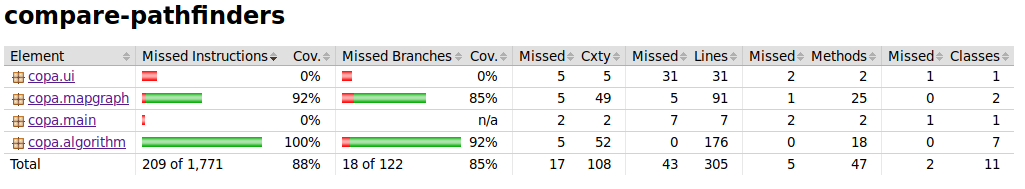
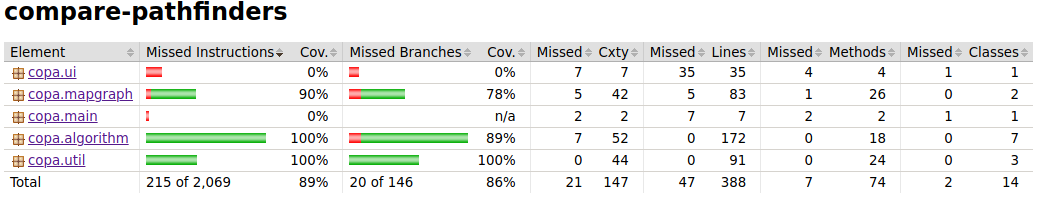
dokumentaatiota kasvatettu

diff --git a/documentation/testing.md b/documentation/testing.md
@@ -1,12 +1,12 @@
 # Testausdokumentti
 
-Ohjelmalle on toteutettu automaattisia JUnit yksikkö- ja integraatiotestejä, testien rivi- ja haaraumakattavuus on raportoitu JaCoCo:n avulla.
+Ohjelmalle on toteutettu automaattisia JUnit yksikkö- ja integraatiotestejä. Testien rivi- ja haaraumakattavuus on raportoitu JaCoCo:n avulla, josta oheen on liitetty kuvakaappauksia sovelluksen lopellisesta versiosta.
 
-## Testauksen kattavuus
-
-Ajantasaisen tiedon testien kattavuudesta saat ajamalla sovelluksen juuressa komentorivillä käskyn ``./gradlew test jacocoTestReport`` ja avaamalla selaimeesi kansioon ./build/reports/jacoco/test/html generoidun html-pohjaisen raportin. Vaihtoehtoisesti voit klikata alla olevaa Codecov-työkalun linkkiä, jolla pääset tarkastelemaan Githubista löytyvän viimeisimmän sovellusversion vastaavia Jacoco-testien tuloksia.
+Klikkaamalla oheista Codecov-työkalun linkkiä pääset tarkastelemaan Githubista löytyvän viimeisimmän sovellusversion vastaavia Jacoco-testien tuloksia tarkemmin. Löydät palvelusta mm. oheisia metodikohtaiset testauskattavuudet ja testikattavuuden kehitystrendin projektin aikana.
 
 [![Testikattavuus](https://codecov.io/gh/jsalojuuri/compare-pathfinders/branch/master/graph/badge.svg)](https://codecov.io/gh/jsalojuuri/compare-pathfinders)
+
+## Testauksen kattavuus
 
 ![Jacocon testikattavuus-raportti](./reports/jacoco/jacoco.png)
 
@@ -16,14 +16,21 @@ Pää- ja käyttöliittymäluokkia ei testata, joten testien rivikattavuus on yl
 
 ![Jacocon testikattavuus-raportti, copa.algorithm](./reports/jacoco/jacoco_algorithm.png)
 
-Tästä paketista löytyy vertailtavien algoritmien luokat ja kolmen algortimin osalta myös Comparator-luokat. Rivikattavuus yli 90%. Kaikissa metodeissa on testausta, mutta joitakin haaroja on käymättä läpi.
+Tästä paketista löytyy vertailtavien algoritmien luokat ja kolmen algortimin osalta myös Comparator-luokat. Rivikattavuus on 100%. Kaikissa metodeissa on testausta, mutta joitakin haaroja on käymättä läpi.
 
 ## Kartta- ja solmu-luokkien yksikkötestit
 
 ![Jacocon testikattavuus-raportti, copa.mapgraph](./reports/jacoco/jacoco_mapgraph.png)
 
-Tästä paketista löytyy MapGraph-luokka, jolla ASCII-tiedosto muokataan verkoksi ja printataan näytölle sekä Node-luokka, joka vastaa karttaruutua eli verkon solmua. Käytännössä kaikki metodit paitsi kartan printtaus on testattu. 
+Tästä paketista löytyy MapGraph-luokka, jolla ASCII-tiedosto muokataan verkoksi ja printataan näytölle sekä Node-luokka, joka vastaa karttaruutua eli verkon solmua. Käytännössä kaikki metodit paitsi kartan printtaus on testattu.
+
+## Omien Java.util toteutuksien testaus
+
+![Jacocon testikattavuus-raportti, copa.util](./reports/jacoco/jacoco_util.png)
+
+Tästä paketista löytyy java.util paketin luokkia ArrayList, ArrayDeque ja PriorityQueue vastaavat omat toteutukset. Luokkia on toteutettu vain siltä osin kuin olen tarvinnut sovelluksen toiminnallisuutta varten. Testien rivi- ja haaraumakattavuus on 100%.
 
 ## Parannettavaa testauksessa
 
-En ehtinyt perehtymään miten saisin testattua kartan tulostuksen toimivuuden, tämä jäi vielä tulevaisuuden opiskelulistalle.
+* En ehtinyt perehtymään miten saisin testattua kartan tulostuksen toimivuuden, tämä jäi vielä tulevaisuuden opiskelulistalle.
+* Algoritmien osalta testaus jäi hyvin pintapuoliseksi, testit varmistavat nyt lähinnä sen, että algoritmi lähtee oikein käyntiin ja itse toteutetut jonoluokat toimivat siiinä oikein. 

diff --git a/documentation/definition.md b/documentation/definition.md
@@ -1,6 +1,6 @@
 # Määrittelydokumentti
 
-Tässä projektissa vertaillaan Breath First Search (BFS)-, Uniform Cost Search (UCS)-, Greedy Best First (GBF)- ja AStar (A*)-algoritmien tehokkuutta kaksiulotteisella kartalla ja toteutetaan kyseiset algoritmit Javalla korvaten Javan tarjoamat valmiit pino-, jono- tmv. tietorakenteet omilla toteutuksilla. 
+Tässä projektissa vertaillaan Breath First Search (BFS)-, Uniform Cost Search (UCS)-, Greedy Best First (GBF)- ja AStar (A*)-algoritmien tehokkuutta kaksiulotteisella kartalla ja toteutetaan kyseiset algoritmit Javalla korvaten Javan tarjoamat valmiit ArrayList, ArrayDeque ja PriorityQueue tietorakenteet omilla toteutuksilla siltä osin kuin niitä tarvitaan sovelluksessa. 
 
 Ohjelma saa syötteekseen [ASCII-pohjaisen karttatiedoston](https://movingai.com/benchmarks/grids.html), johon arvotaan reitin aloitus- ja lopetuspisteet. Algoritmien tehtävänä on löytyy mahdollisimman kustannustehokas reitti pisteiden välillä mahdollisimman vähäisellä laskennalla. Algoritmien tehokkuutta arvioidaan vertailemalla niiden tuottamien reittien kustanustehokkuutta ja tutkittujen ruutujen määrää. 
 * **Reitin kustannustehokkuuteen vaikuttaa** sekä kuljettujen karttaruutujen määrä että yksittäisen karttaruudun kustannus. Ruutukohtainen kustannus voi olla joko 1 (normaali ruutu) tai 5 (ruutu jossa puita). Tätä metriikkaa pyritään minimoimaan.
